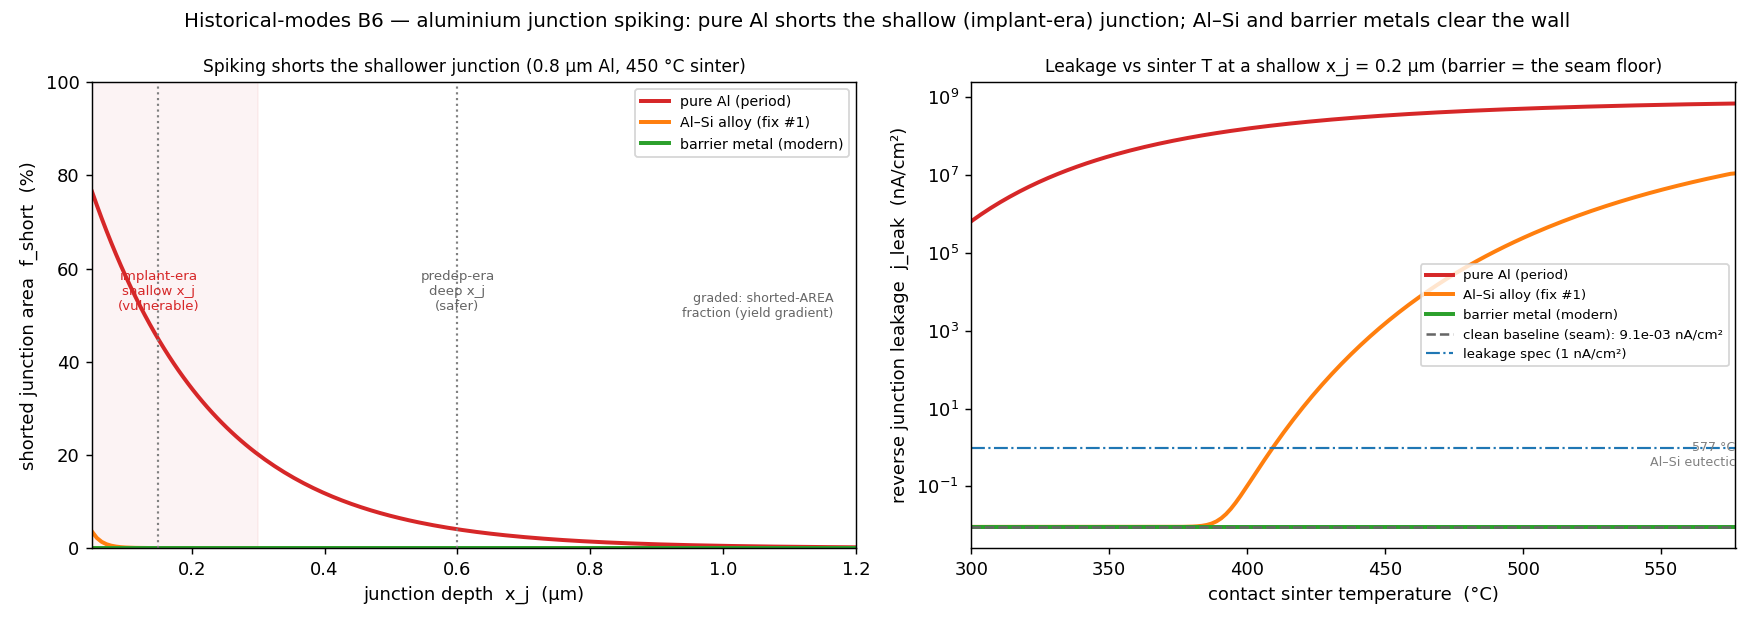
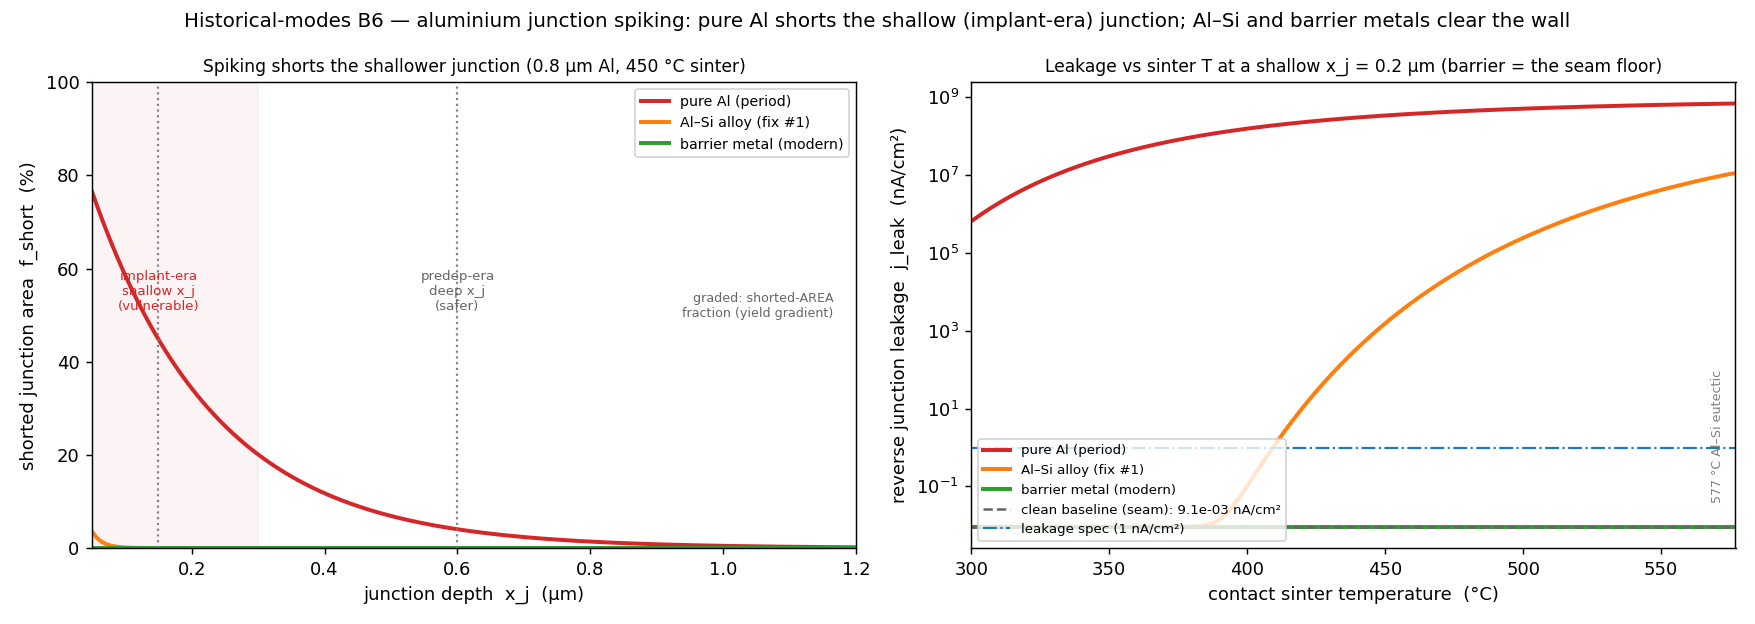
fix(chip): declutter B6 figure — vertical eutectic label, legend to lower-left
The "577 °C Al–Si eutectic" annotation was clipped at the right edge and
overlapped the spec line; rotate it vertical along the vline and move the legend
off the crowded center-right. Rendered-artifact only; no model/test change.

Claude-Session: https://claude.ai/code/session_01N1yfusgvMM6W5HXGnSHsfY

Changed region(s): [[0.5538, 0.7003, 0.7385, 0.883], [0.8, 0.3958, 0.9846, 0.609], [0.9538, 0.7003, 0.9846, 0.7612]]

diff --git a/chip/demo_metallization_history.py b/chip/demo_metallization_history.py
@@ -160,14 +160,14 @@ def save_figure(r: MetallizationHistoryResult) -> Path:
                label=f"clean baseline (seam): {r.baseline_nA:.1e} nA/cm²")
     ax.axhline(LEAK_SPEC_NA, color="tab:blue", ls="-.", lw=1.2, label=f"leakage spec ({LEAK_SPEC_NA:g} nA/cm²)")
     ax.axvline(AL_SI_EUT := mh.AL_SI_EUTECTIC_CELSIUS, color="0.6", ls=":", lw=1.0)
-    ax.annotate("577 °C\nAl–Si eutectic", xy=(AL_SI_EUT, r.baseline_nA * 30), fontsize=7,
-                color="0.5", ha="right", va="bottom")
+    ax.text(AL_SI_EUT - 4, r.baseline_nA * 4, "577 °C Al–Si eutectic", rotation=90, fontsize=7,
+            color="0.5", ha="right", va="bottom")
     ax.set_xlabel("contact sinter temperature  (°C)")
     ax.set_ylabel("reverse junction leakage  j_leak  (nA/cm²)")
     ax.set_xlim(r.T_celsius[0], r.T_celsius[-1])
     ax.set_title(f"Leakage vs sinter T at a shallow x_j = {X_J_SHALLOW} µm (barrier = the seam floor)",
                  fontsize=9.5)
-    ax.legend(fontsize=7.4, loc="center right")
+    ax.legend(fontsize=7.4, loc="lower left")
 
     fig.suptitle("Historical-modes B6 — aluminium junction spiking: pure Al shorts the shallow "
                  "(implant-era) junction; Al–Si and barrier metals clear the wall", fontsize=11)